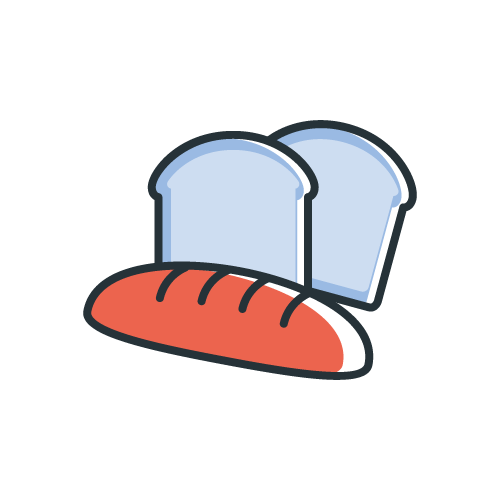
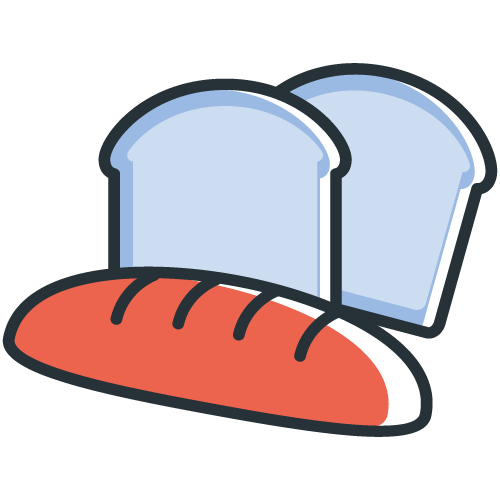
Imagenes categorias, maquetacion teams-list

diff --git a/src/app/components/team-card/team-card.component.html b/src/app/components/team-card/team-card.component.html
@@ -1,15 +1,15 @@
-<div class="bordes card mb-3 pointer" [routerLink]="['/team', oneTeam.Id]">
-    <div class="row g-0">
-        <div class="col-md-2">
+<div class="mb-3 pointer" [routerLink]="['/team', oneTeam.Id]">
+    <div class="row g-2 justify-content-center">
+        <div class="col-md-2 imgCategory">
             <figure>
-                <img src="/images/teams.png" class="img-fluid rounded-start" alt="team">
+                <img [src]="teamsService.getCategoryImage(oneTeam.Category)" class="img-fluid rounded-start" alt="">
             </figure>
         </div>
-        <div class="col-md-8">
+        <div class="col-md-8 ms-5 mt-4">
             <div class="card-body">
                 <h5 class="card-title">{{oneTeam.Name}}</h5>
-                <p class="card-text"><small class="text-body-secondary">Debes 200€ </small></p>
             </div>
         </div>
     </div>
+    <hr>
 </div>

diff --git a/src/app/services/teams.service.ts b/src/app/services/teams.service.ts
@@ -92,17 +92,37 @@ export class TeamsService {
     return true;
   }
   addUserToTeam(userId: number, teamId: number) {
-   
+
     return firstValueFrom(
       this.httpClient.post(
-        `${this.baseUrl}/create/createUserTeam`, 
-        { 
+        `${this.baseUrl}/create/createUserTeam`,
+        {
           userId,     // Envía el userId directamente
-          teamId 
+          teamId
         },
-      
+
       )
     );
-}
+  }
 
+
+  getCategoryImage(category: category) {
+    switch (category) {
+      case "Ocio":
+        return "/images/category-leisure.png";
+
+      case "Compras":
+        return "/images/category-shopping.png";
+
+      case "Transporte":
+        return "/images/category-transport.png";
+
+      case "Comida":
+        return "/images/category-eat.png";
+
+      default:
+        return "/images/teams.png";
+
+    }
+  }
 }

diff --git a/src/app/components/team-card/team-card.component.ts b/src/app/components/team-card/team-card.component.ts
@@ -1,4 +1,5 @@
-import { Component, Input } from '@angular/core';
+import { TeamsService } from './../../services/teams.service';
+import { Component, inject, Input } from '@angular/core';
 import { ITeam } from '../../interface/team.interface';
 import { RouterLink } from '@angular/router';
 
@@ -11,4 +12,7 @@ import { RouterLink } from '@angular/router';
 export class TeamCardComponent {
 
   @Input() oneTeam!: ITeam;
+
+  teamsService = inject(TeamsService);
+
 }

diff --git a/src/app/components/team-list/team-list.component.html b/src/app/components/team-list/team-list.component.html
@@ -1,7 +1,7 @@
 <div class="container ">
     <section class=" row">
         <div class="color col-lg-6  shadow-sm">
-            <h3>Tus grupos</h3>
+            <h3 class="text-center mb-5">Tus grupos</h3>
             <app-select-category (selectCategory)="selectCategory($event)"></app-select-category>
             <div>
                 @for (team of arrTeams; track team.Id) {

diff --git a/src/app/components/button/button.component.css b/src/app/components/button/button.component.css
@@ -2,6 +2,8 @@ button {
     color: white;
     background-color: var(--third-color);
     border: 0px;
+    width: 100%;
+    height: auto;
     border-radius: 12rem;
     padding: 0.35rem 1rem;
     cursor: pointer;

diff --git a/src/app/components/team-list/team-list.component.ts b/src/app/components/team-list/team-list.component.ts
@@ -14,6 +14,7 @@ export class TeamListComponent {
   arrTeams: ITeam[] = [];
   teamsService = inject(TeamsService);
   @Input() category: string = "";
+  categoryImg: string = "";
 
   async ngOnInit() {
 

diff --git a/src/app/components/team-card/team-card.component.css b/src/app/components/team-card/team-card.component.css
@@ -2,8 +2,8 @@
     cursor: pointer;
 }
 
-.bordes {
-    border-radius: 2rem;
-
-
+.imgCategory {
+    max-width: 100%;
+    height: auto;
+    object-fit: cover;
 }
